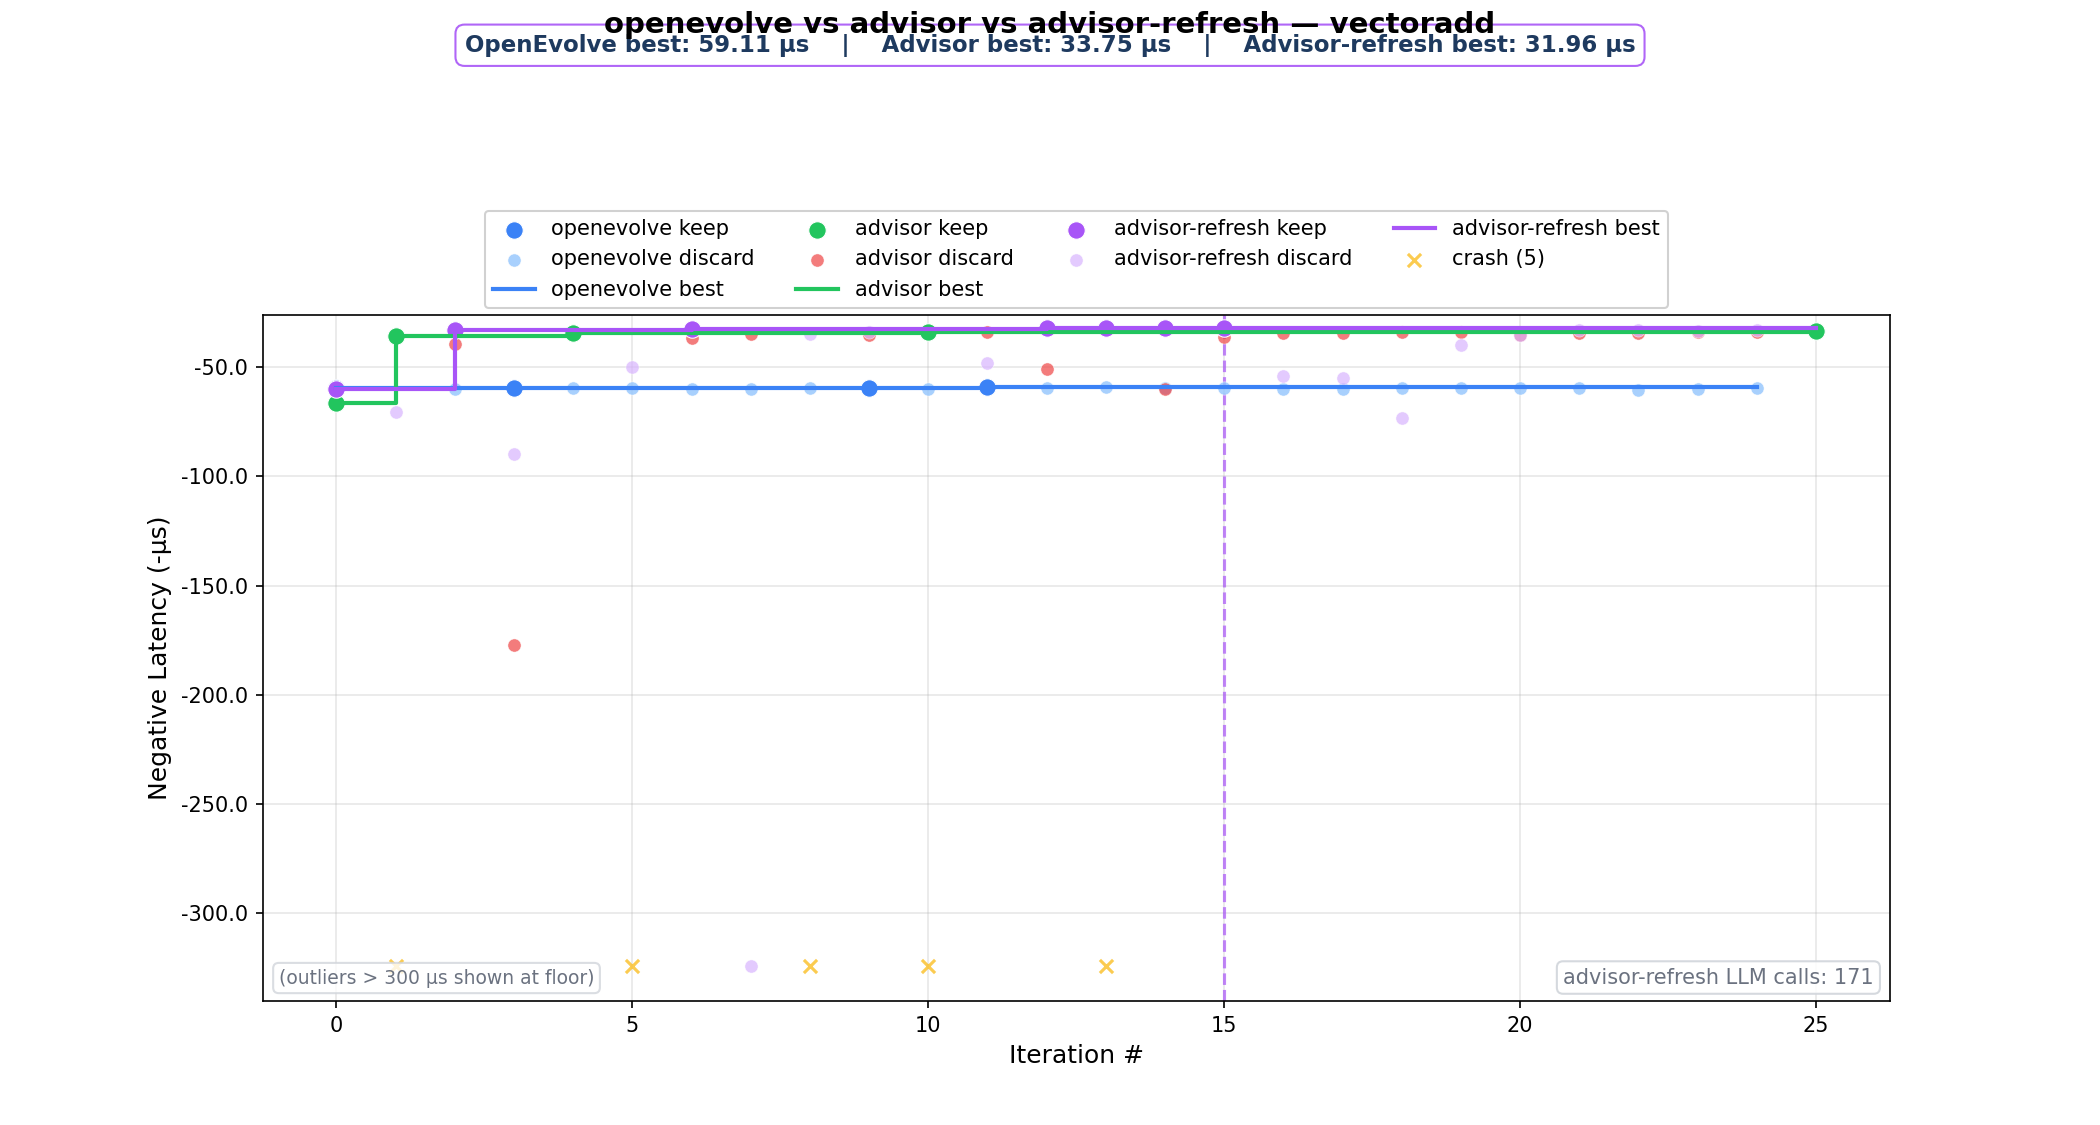
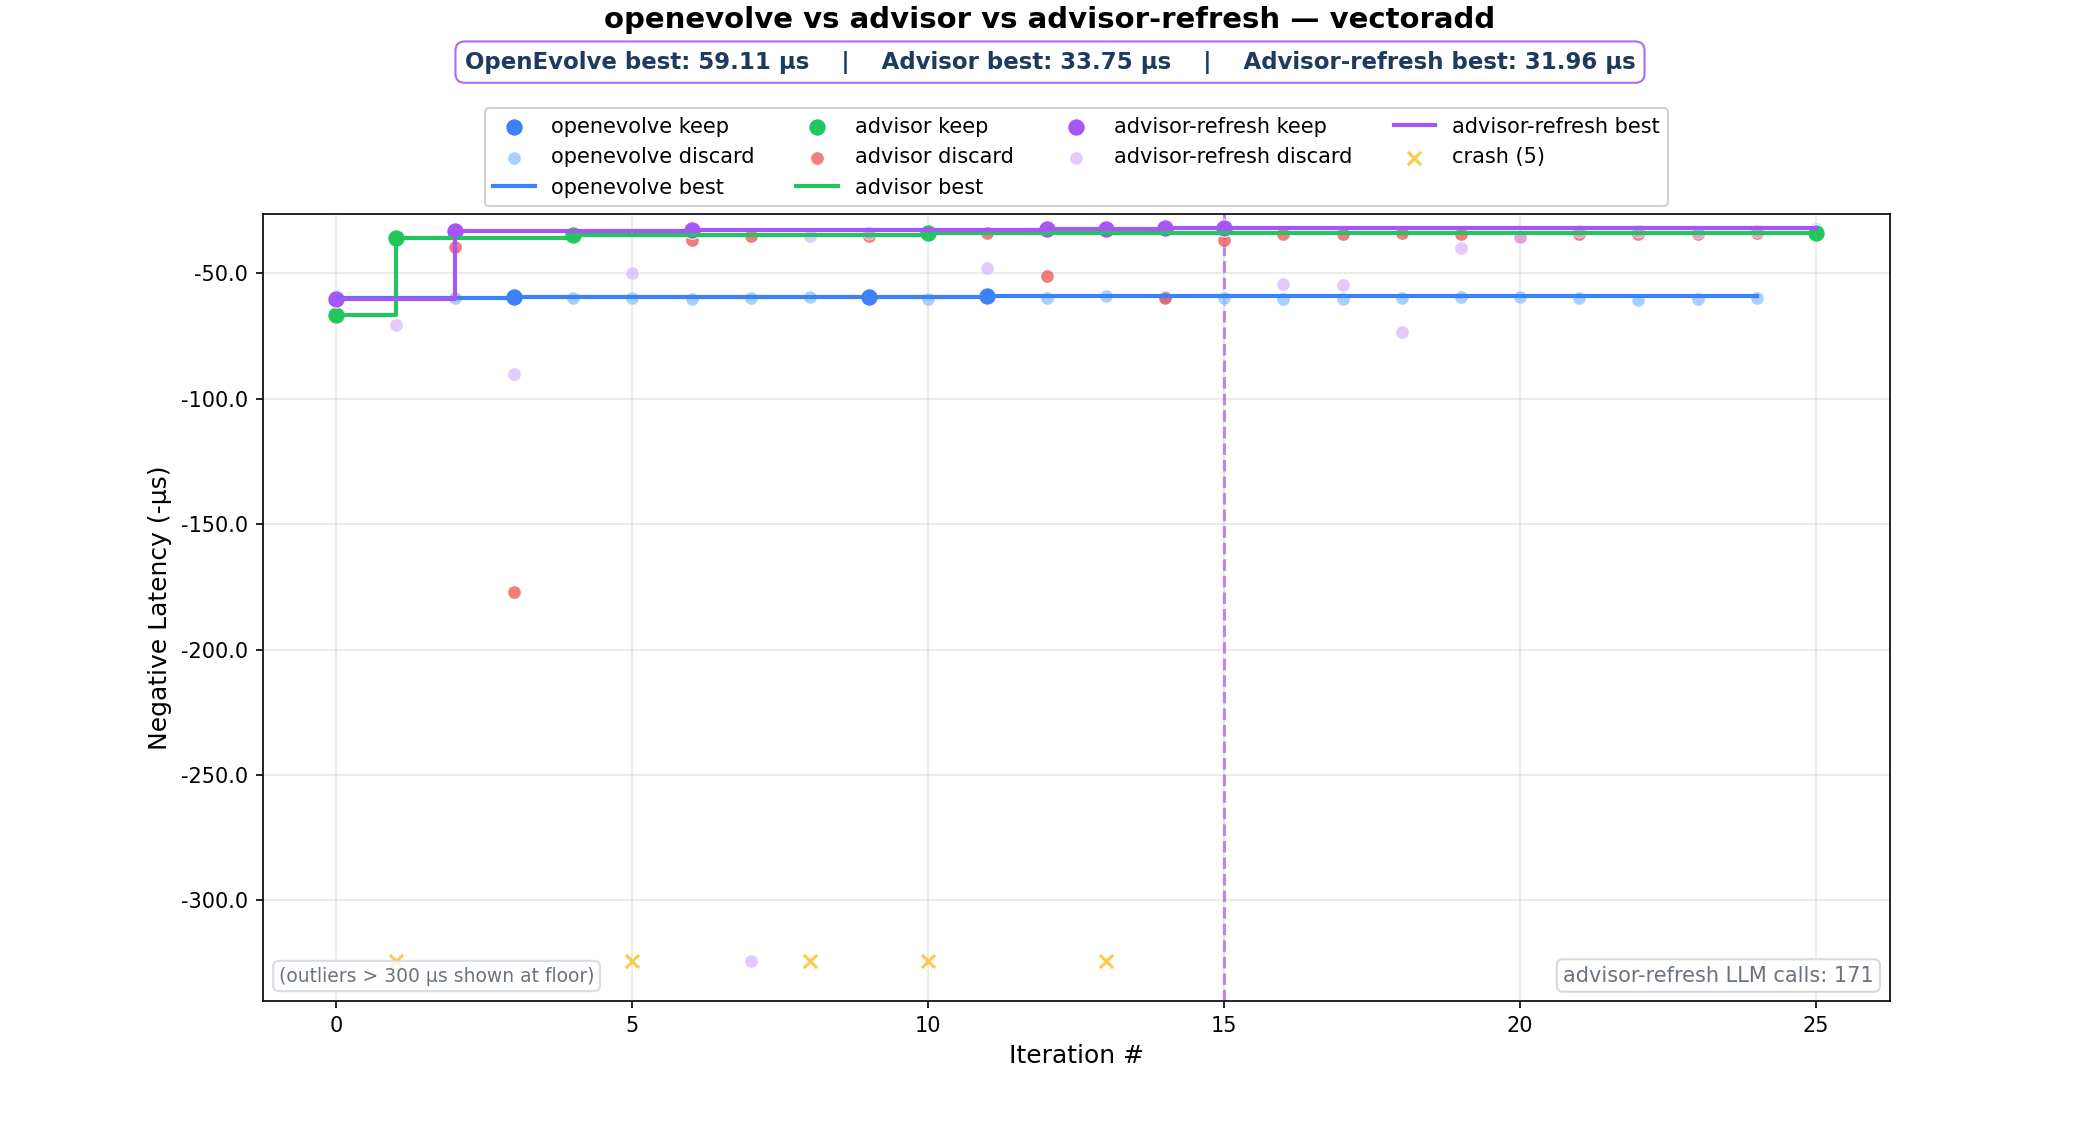
fix comparison plot header spacing

diff --git a/plot_comparison.py b/plot_comparison.py
@@ -117,7 +117,7 @@ LLM_CALLS = 171  # advisor-refresh run total
 
 # ── Plot ──────────────────────────────────────────────────────────────────────
 fig, ax = plt.subplots(figsize=(14, 7.5))
-fig.subplots_adjust(top=0.72)
+fig.subplots_adjust(top=0.81)
 
 # OpenEvolve — blue
 oe_kx = [it for it, k in zip(oe_iters, oe_kinds) if k == "keep"]
@@ -180,7 +180,7 @@ ax.legend(loc="lower center", bbox_to_anchor=(0.5, 1.01), ncol=4,
           framealpha=0.9, fontsize=10, borderaxespad=0)
 
 # Best-time records above the plot (figure-level text)
-fig.text(0.5, 0.97,
+fig.text(0.5, 0.955,
          f"OpenEvolve best: {oe_best:.2f} μs    |    "
          f"Advisor best: {adv_best:.2f} μs    |    "
          f"Advisor-refresh best: {ref_best:.2f} μs",
@@ -188,7 +188,7 @@ fig.text(0.5, 0.97,
          bbox=dict(boxstyle="round,pad=0.4", facecolor="white", edgecolor="#a855f7", alpha=0.9))
 
 # Title
-fig.text(0.5, 0.99, "openevolve vs advisor vs advisor-refresh — vectoradd",
+fig.text(0.5, 0.995, "openevolve vs advisor vs advisor-refresh — vectoradd",
          ha="center", va="top", fontsize=14, fontweight="bold")
 
 # LLM call counter — bottom right (advisor-refresh only)